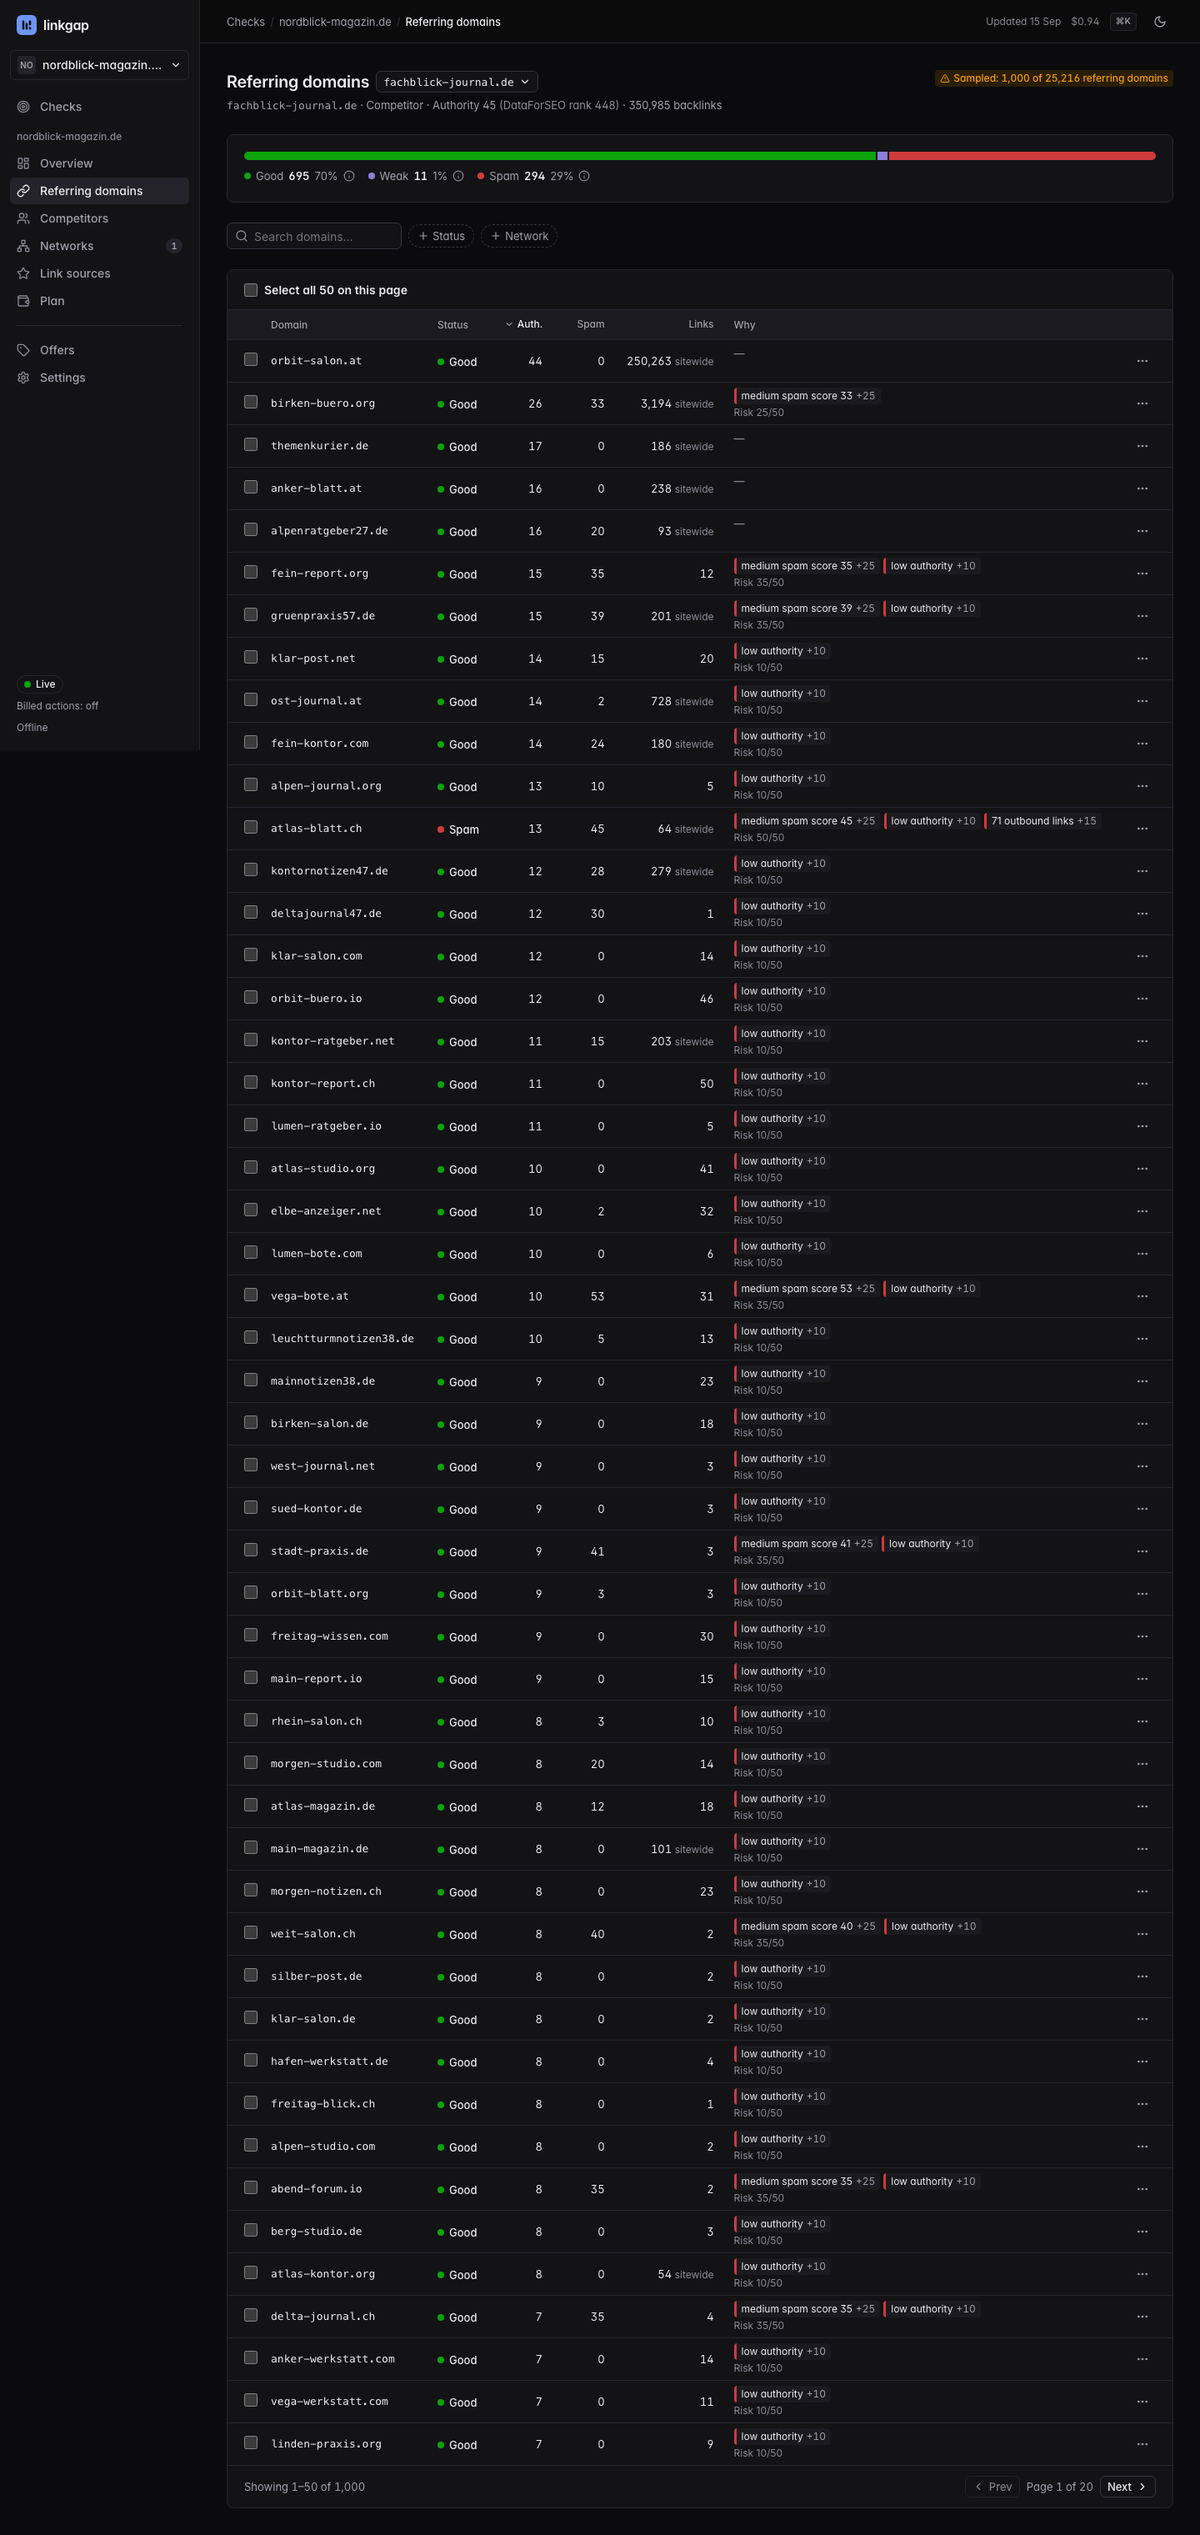
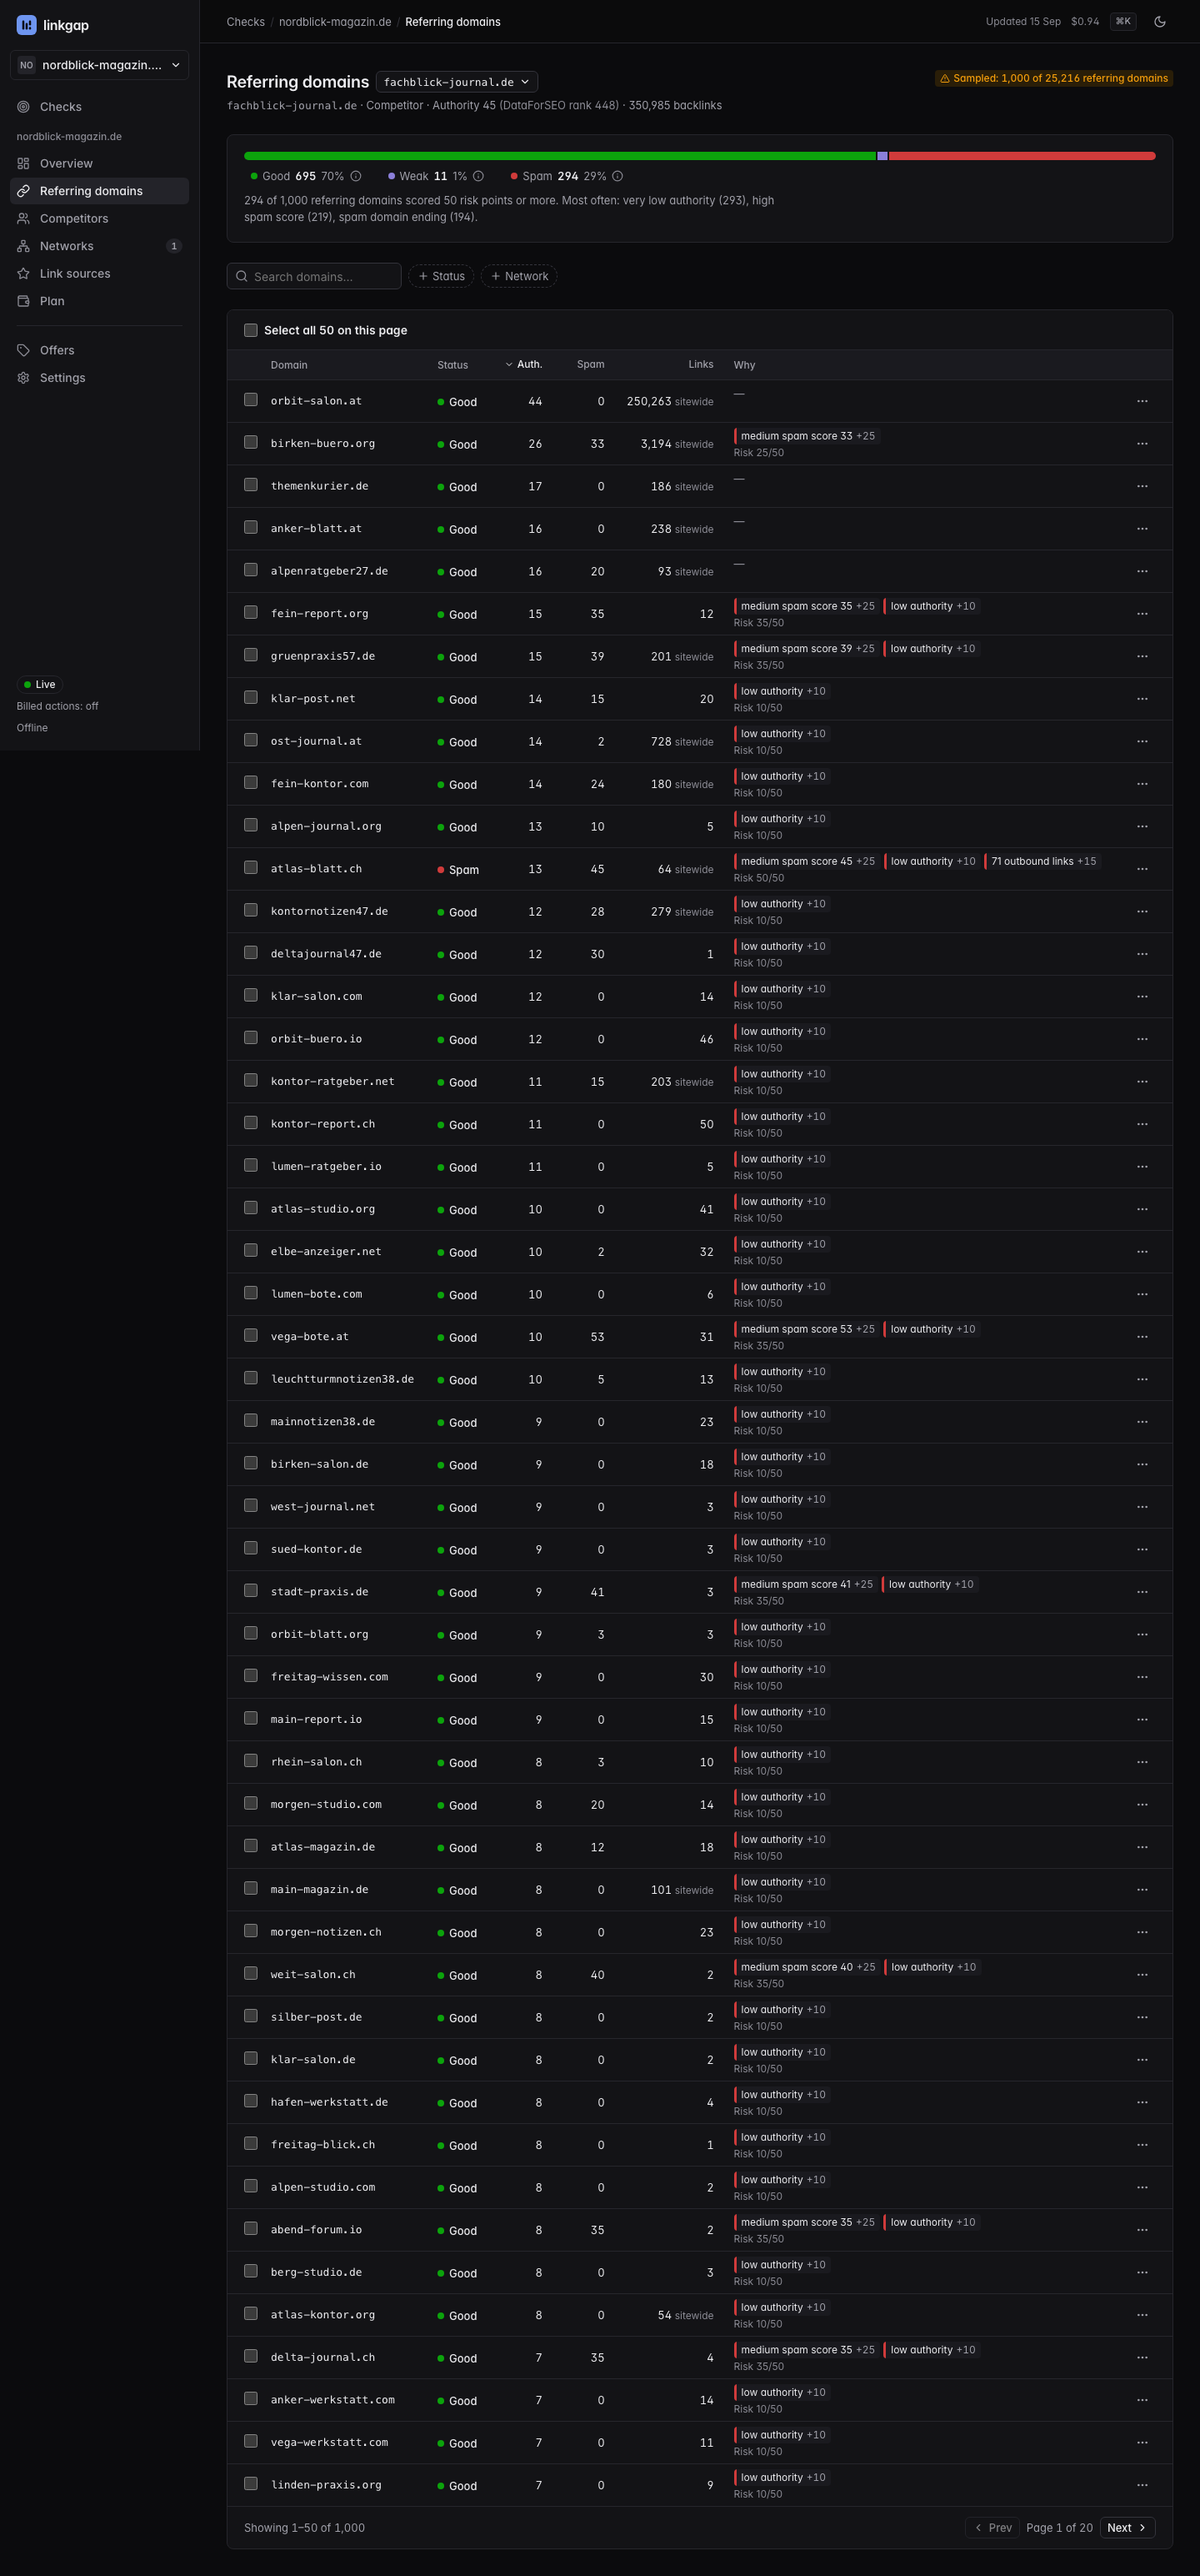
Refresh the referring domains screenshot
Claude-Session: https://claude.ai/code/session_012yyshPtUyHD4xxq4cyuqhN

diff --git a/index.html b/index.html
@@ -179,7 +179,7 @@
           <figure class="shot">
             <picture>
               <source srcset="img/domains-dark.png" media="(prefers-color-scheme: dark)">
-              <img src="img/domains-light.png" width="1440" height="3041" loading="lazy" decoding="async"
+              <img src="img/domains-light.png" width="1440" height="3089" loading="lazy" decoding="async"
                    alt="The referring domains screen for fachblick-journal.de: a quality bar reading good 695 at 70 percent, weak 11, spam 294 at 29 percent, an amber badge saying sampled 1,000 of 25,216 referring domains, and a table where each row carries reason chips such as medium spam score 45 plus 25 and very low authority plus 20.">
             </picture>
           </figure>
